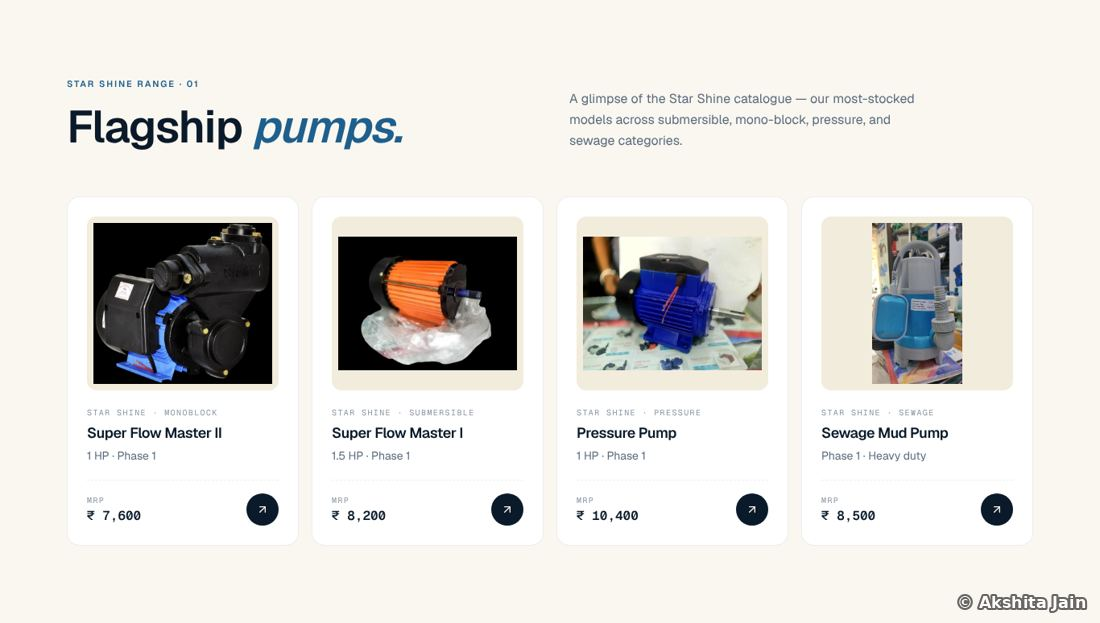
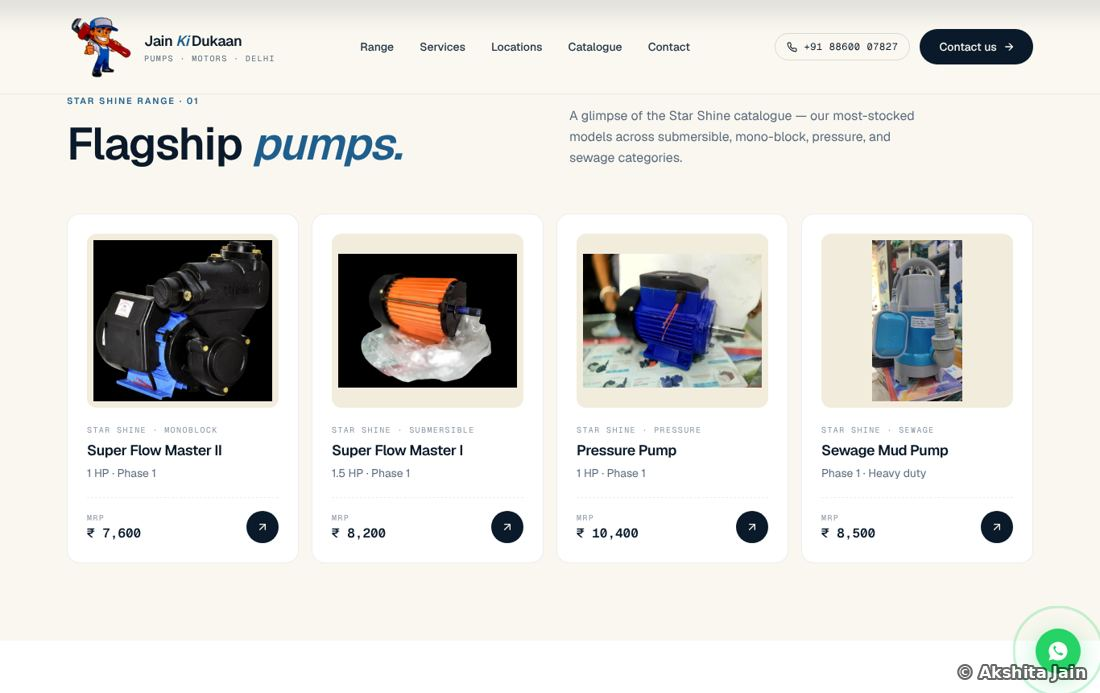
Fix upside-down visiting card and replace blank site screenshots
Claude-Session: https://claude.ai/code/session_01Txh8ckb2cgAVnFKxQi4oQD

diff --git a/index.html b/index.html
@@ -450,7 +450,7 @@ footer .wrap{display:flex;justify-content:space-between;flex-wrap:wrap;gap:12px}
         <span class="status"><i></i>Ongoing · local business</span>
         <h3>Jain Ki Dukaan</h3>
         <div class="role">Website · content · social</div>
-        <p>An authorized Star Shine pump dealer in Delhi, running since 2011, whose only marketing was a printed visiting card. I took it online with a full website, built from scratch.</p>
+        <p>An authorized Star Shine pump dealer in Delhi, running since 2011, whose only marketing was this printed visiting card. I took it online with a full website, built from scratch.</p>
         <ul>
           <li>Built in Next.js with scroll animations and a mobile-first layout, plus a WhatsApp button on every screen.</li>
           <li>A 33-product catalogue in 8 categories with MRPs, so buyers check prices before they call.</li>
@@ -462,7 +462,7 @@ footer .wrap{display:flex;justify-content:space-between;flex-wrap:wrap;gap:12px}
           <button class="tile" type="button" data-src="gal:jkd:1"><img src="assets/img/jkd/t-site-hero.jpg" alt="After: website home page"><span class="play stack"></span><span class="k">After · home</span></button>
           <button class="tile" type="button" data-src="gal:jkd:2"><img src="assets/img/jkd/t-site-range.jpg" alt="Website product range"><span class="play stack"></span><span class="k">Products</span></button>
           <button class="tile" type="button" data-src="gal:jkd:3"><img src="assets/img/jkd/t-site-services.jpg" alt="Website services"><span class="play stack"></span><span class="k">Services</span></button>
-          <button class="tile" type="button" data-src="gal:jkd:6"><img src="assets/img/jkd/t-site-mobile.jpg" alt="Website on a phone"><span class="play stack"></span><span class="k">On mobile</span></button>
+          <button class="tile" type="button" data-src="gal:jkd:8"><img src="assets/img/jkd/t-site-mobile.jpg" alt="Website on a phone"><span class="play stack"></span><span class="k">On mobile</span></button>
         </div>
       </article>
     </div>
@@ -558,7 +558,7 @@ footer .wrap{display:flex;justify-content:space-between;flex-wrap:wrap;gap:12px}
   var pad=function(n){return (n<10?'0':'')+n};
   var GAL={
     'tatsat-carousel':[1,2,3,4,5].map(function(i){return T+'carousel-'+pad(i)+'.jpg'}),
-    'jkd':['before-card','site-hero','site-range','site-services','site-locations','site-faq','site-mobile'].map(function(n){return 'assets/img/jkd/'+n+'.jpg'}),
+    'jkd':['before-card','site-hero','site-range','site-services','site-about','site-catalogue','site-faq','site-contact','site-mobile'].map(function(n){return 'assets/img/jkd/'+n+'.jpg'}),
     'tatsat-stories':Array.from({length:20},function(_,i){return T+'story-'+pad(i+2)+'.jpg'})
   };
   var data={
@@ -586,7 +586,7 @@ footer .wrap{display:flex;justify-content:space-between;flex-wrap:wrap;gap:12px}
       prev=modal.querySelector('.prev'),next=modal.querySelector('.next'),ext=modal.querySelector('.mext'),last=null,gal=null,gi=0;
   function show(){modal.hidden=false;requestAnimationFrame(function(){modal.classList.add('open')});document.body.style.overflow='hidden';modal.querySelector('.mclose').focus();}
   function hide(){modal.classList.remove('open');setTimeout(function(){modal.hidden=true;stage.innerHTML='';},250);document.body.style.overflow='';if(last)last.focus();}
-  function drawGal(){modal.querySelector('.mbox').classList.toggle('wide',gal==='jkd'&&gi>0&&gi<6);stage.innerHTML='<img src="'+GAL[gal][gi]+'" alt="Slide '+(gi+1)+'">';prev.hidden=next.hidden=GAL[gal].length<2;
+  function drawGal(){modal.querySelector('.mbox').classList.toggle('wide',gal==='jkd'&&gi<8);stage.innerHTML='<img src="'+GAL[gal][gi]+'" alt="Slide '+(gi+1)+'">';prev.hidden=next.hidden=GAL[gal].length<2;
     dots.innerHTML=GAL[gal].map(function(_,i){return '<i class="'+(i===gi?'on':'')+'"></i>'}).join('');cap.textContent=(gi+1)+' / '+GAL[gal].length;}
   function open(src,label,trigger){
     last=trigger;gal=null;modal.querySelector('.mbox').classList.remove('wide');prev.hidden=next.hidden=true;dots.innerHTML='';ext.hidden=true;
